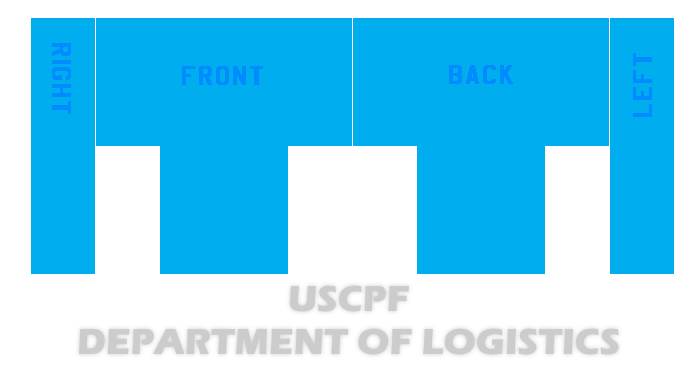
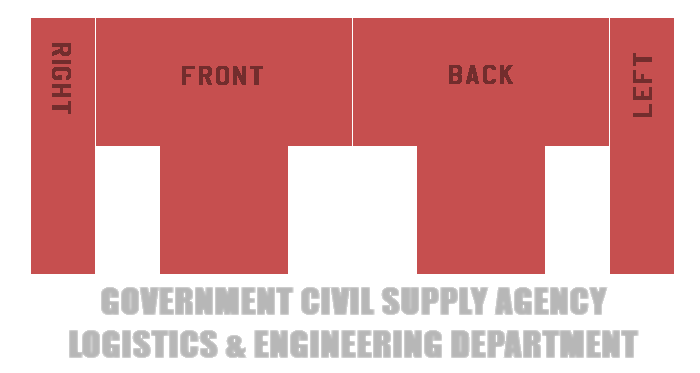
agh

diff --git a/style.css b/style.css
@@ -3,7 +3,7 @@
 	padding: 0;
 	box-sizing: border-box;
 	font-family: "Source Code Pro", sans-serif;
-	color: #00AEEF;
+	color: #C64F4F;
 }
 
 body, html {
@@ -27,12 +27,12 @@ input[type="file"] {
 	grid-column: 1 / span 3;
 	grid-row: 1;
 	text-align: center;
-	text-shadow: 0px 0px 5px #00AEEF;
+	text-shadow: 0px 0px 5px #C64F4F;
 }
 
 .heading__image {
 	max-width: 40%;
-	filter: drop-shadow(0px 0px 100px #00AEEF);
+	filter: drop-shadow(0px 0px 100px #C64F4F);
 }
 
 .heading__title {
@@ -47,7 +47,7 @@ input[type="file"] {
 canvas {
 	grid-column: 2;
 	grid-row: 2;
-	border: 1px solid #00AEEF;
+	border: 1px solid #C64F4F;
 }
 
 .note {
@@ -73,7 +73,7 @@ canvas {
 	padding-inline: 0.5rem;
 	padding-block: 0.25rem;
 	background-color: transparent;
-	border: 1px solid #00AEEF;
+	border: 1px solid #C64F4F;
 	cursor: pointer;
 }
 
@@ -87,7 +87,7 @@ canvas {
 }
 
 .setting__button:hover {
-	background-color: #00AEEF;
+	background-color: #C64F4F;
 	color: black;
 }
 
@@ -96,7 +96,7 @@ canvas {
 	width: 100%;
 	background-color: transparent;
 	border-style: unset;
-	border-bottom: 1px solid #00AEEF;
+	border-bottom: 1px solid #C64F4F;
 }
 
 .setting__text-input:focus {
@@ -108,8 +108,8 @@ canvas {
 	bottom: 10px;
 	left: 10px;
 	font-size: 12px;
-	color: #00AEEF;
+	color: #C64F4F;
 	opacity: 0.6;
-	text-shadow: 0px 0px 5px #00AEEF;
+	text-shadow: 0px 0px 5px #C64F4F;
 	pointer-events: auto;
 }

diff --git a/index.html b/index.html
@@ -24,7 +24,7 @@
     <body>
         <div class="heading">
             <img src="USRF-logo.png" class="heading__image" />
-            <h1 class="heading__title">USCPF SHOWCASE MAKER</h1>
+            <h1 class="heading__title">GCSA SHOWCASE MAKER</h1>
             <h3 class="heading__subtitle">Generate showcases automatically.</h3>
         </div>
         <p class="note">
